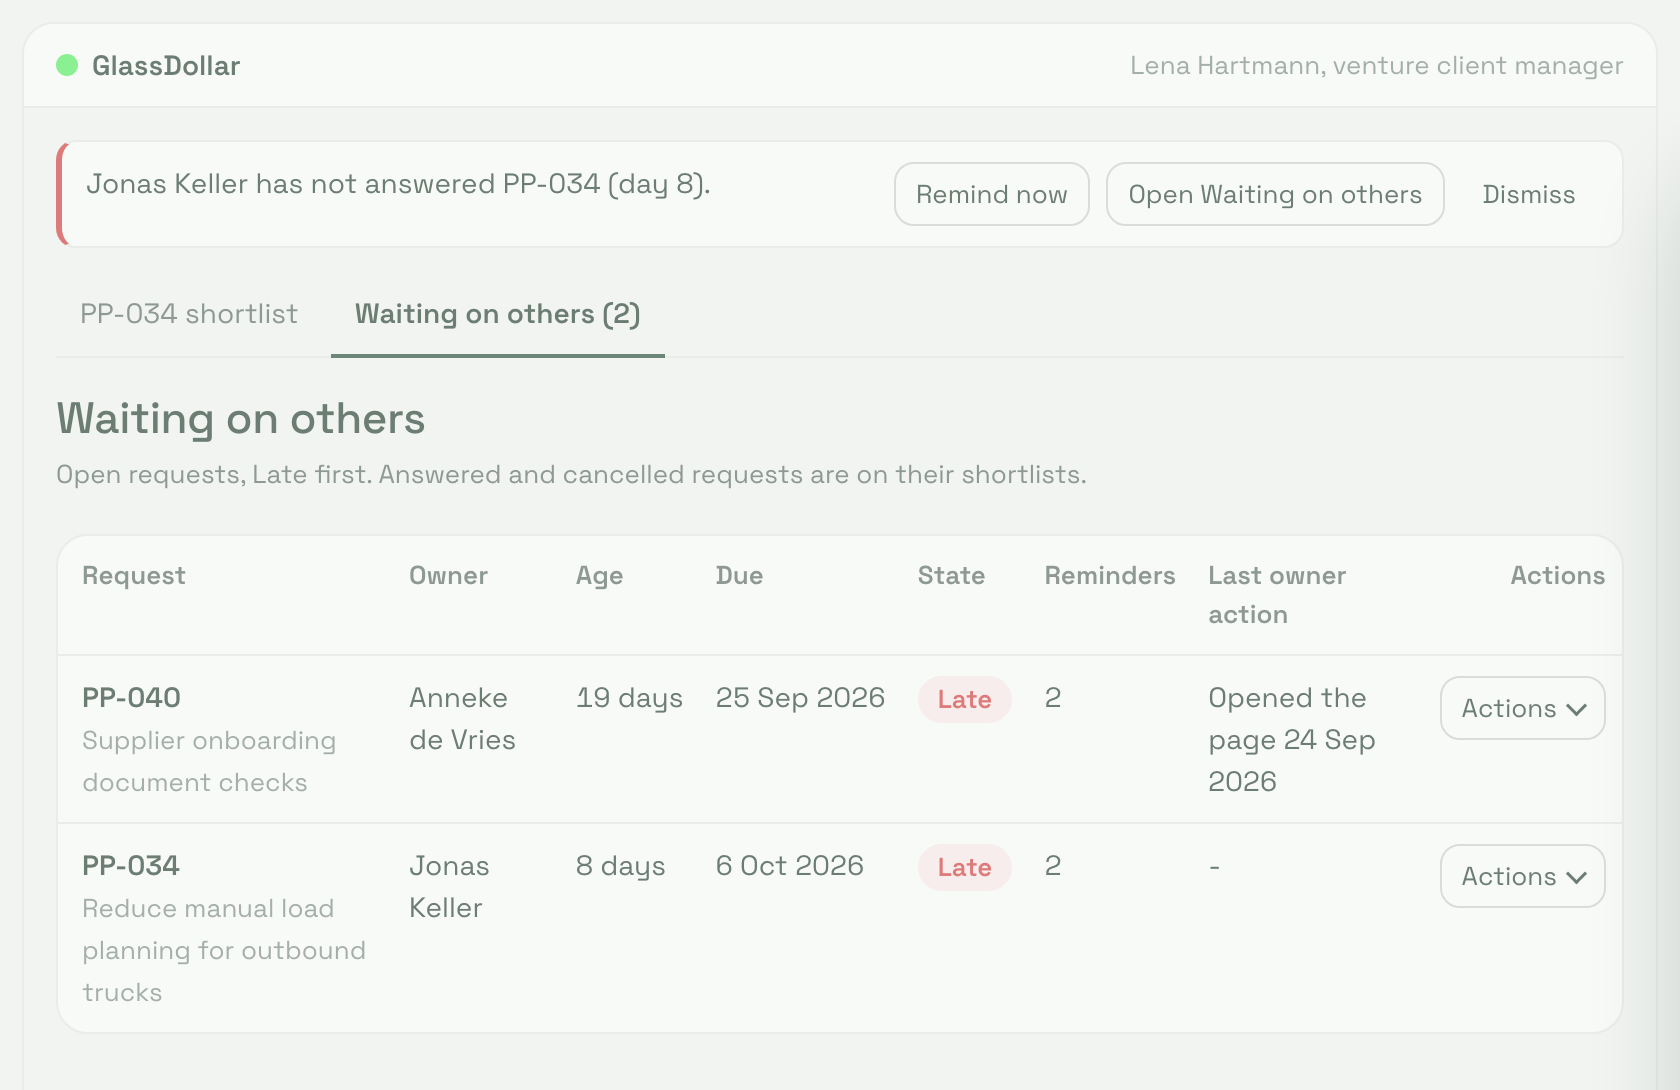
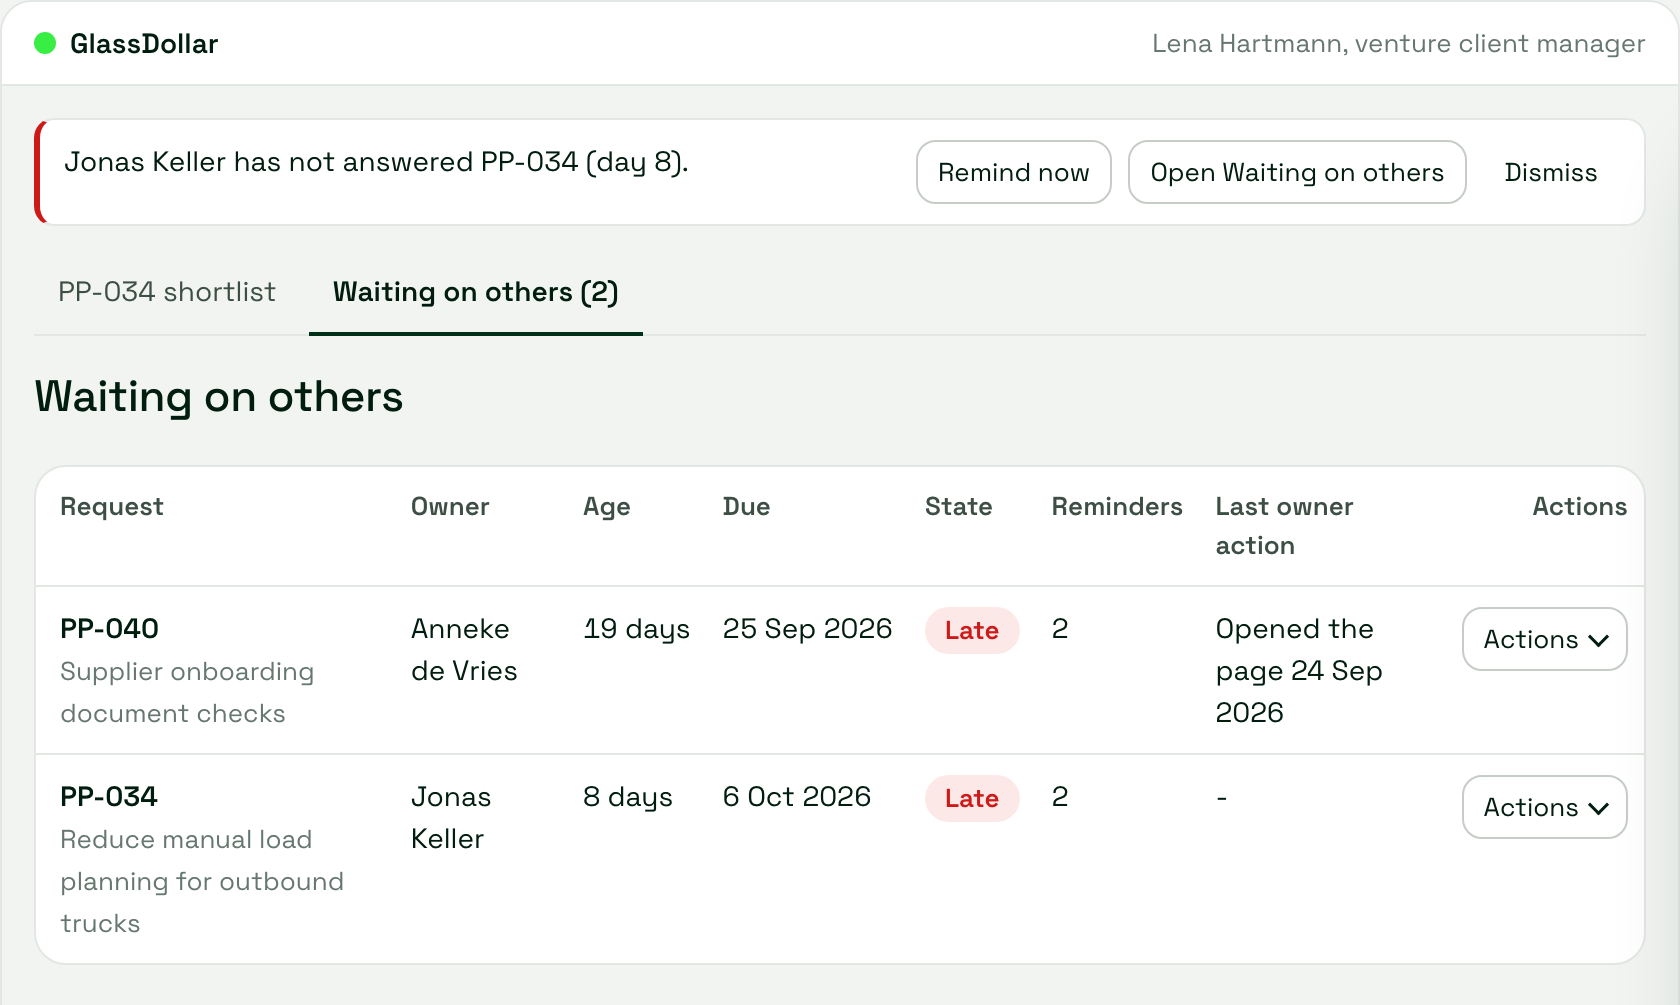
Prototype layout: full-width step text, full-height sidebar, no focus ring on main, no Waiting on others subtitle (#37)

diff --git a/index.html b/index.html
@@ -36,6 +36,7 @@ button,input,textarea,select{font:inherit;color:inherit}
 button,label,a,summary{touch-action:manipulation}
 button{cursor:pointer}
 :focus-visible{outline:none;box-shadow:var(--focus)}
+#main:focus-visible{box-shadow:none}
 .sr-only{position:absolute;width:1px;height:1px;overflow:hidden;clip:rect(0 0 0 0);white-space:nowrap}
 .skip{position:absolute;left:8px;top:-48px;background:#fff;padding:8px 12px;border:1px solid var(--line-2);border-radius:var(--radius-s);z-index:10}
 .skip:focus{top:8px}
@@ -58,7 +59,6 @@ a{color:var(--accent-ink)}
 .guide-row{display:flex;flex-wrap:wrap;gap:8px 24px;align-items:center;justify-content:space-between;margin-top:8px}
 .guide-now{display:flex;flex-wrap:wrap;gap:6px 12px;align-items:center;font-size:15px}
 .guide-now .guide-step{font-weight:600;color:var(--accent-ink);white-space:nowrap}
-.guide-now p{max-width:70ch}
 .controls{display:flex;flex-wrap:wrap;gap:8px 20px;align-items:center;margin-left:auto}
 .controls .group{display:flex;flex-wrap:wrap;gap:6px;align-items:center}
 .days{display:inline-flex;flex-wrap:wrap;gap:6px;align-items:center}
@@ -126,7 +126,8 @@ main{display:grid;gap:16px;align-items:start}
   main{grid-template-columns:minmax(0,1fr) 414px;padding:16px}
   .pane{display:block}
   .controls .role{display:none}
-  .pane.lena{border:1px solid var(--line);border-radius:var(--radius);overflow:hidden;min-height:720px}
+  .pane.lena{border:1px solid var(--line);border-radius:var(--radius);overflow:hidden}
+  .shell{min-height:720px}
   .pane-head{padding:0 0 10px}
   .pane.dim{opacity:.55;transition:opacity .2s}
   .jonas .device{width:414px;border:10px solid #141A16;border-radius:44px;background:#141A16;box-shadow:0 20px 50px rgba(0,29,15,.2);position:sticky;top:calc(var(--guide-h,0px) + 16px)}
@@ -712,7 +713,7 @@ function renderWaiting(){
     <div class="rows">${rows.map(x => `<div class="card row-card"><div class="row-head"><b>${reqCell(x)} ${x.title}</b>${pill(x.state)}</div>
       <div class="kv"><span>Owner</span><b>${esc(x.owner)}</b><span>Age</span><b>${x.age} days</b><span>Due</span><b>${x.due}</b><span>Reminders</span><b>${x.reminders}</b><span>Last action</span><b>${esc(x.last)}</b></div><div class="actions">${actions(x, 'c')}</div></div>`).join('')}</div>`
     : `<div class="card empty">Nothing is waiting on anyone.</div>`;
-  return `<div class="head"><div><h1>Waiting on others</h1><p class="meta small">Open requests, Late first. Answered and cancelled requests are on their shortlists.</p></div></div>${table}`;
+  return `<div class="head"><div><h1>Waiting on others</h1></div></div>${table}`;
 }
 
 function renderJonas(){
